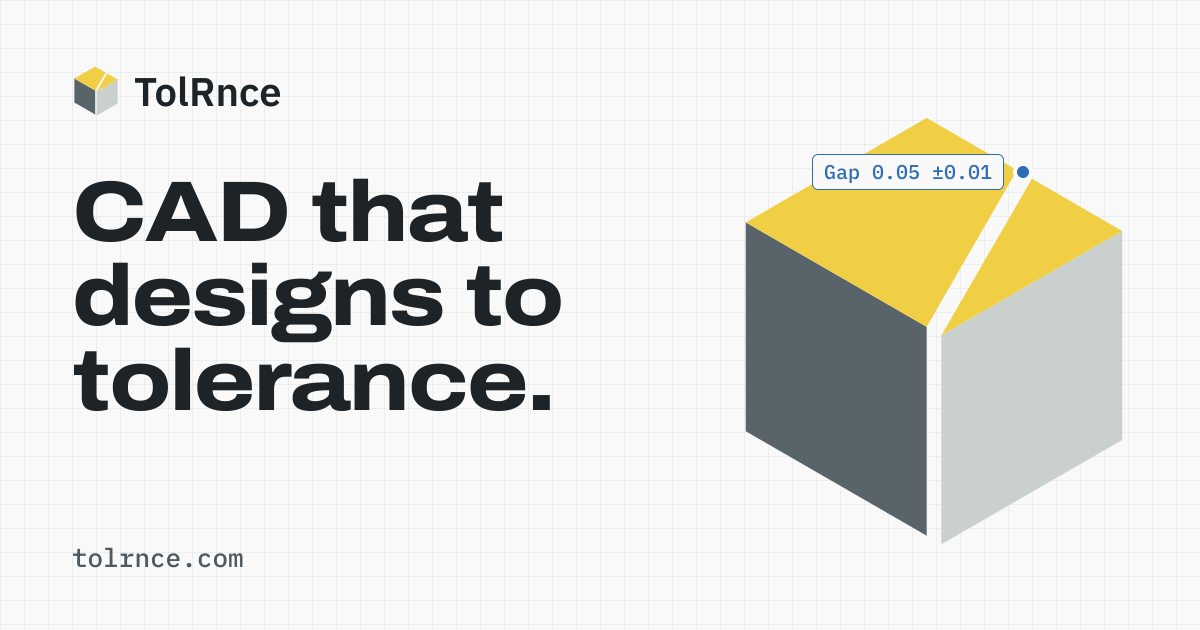
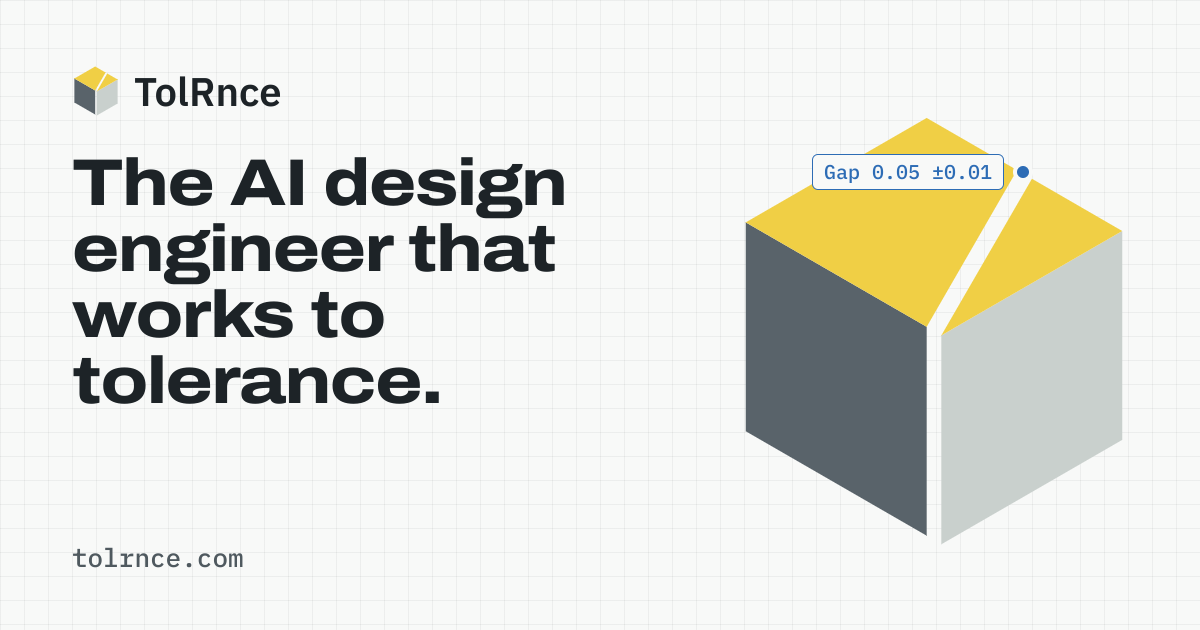
Website: clearer opening, privacy section and FAQ
After a look at competitors' sites (Zoo, Adam, Leo AI, Backflip):
- The opening says what TolRnce is and what you get: "The AI design
  engineer that works to tolerance", with the CAD programs it rebuilds
  the feature tree in. The dictionary-style line at the top is gone.
- New "Your drawings stay with you" section: geometry runs on the
  user's machine, the desktop app works offline, the AI agent only sends
  what you ask it to, and everything exports to STEP and native features.
- New FAQ: replacing CAD, inputs, tolerances, accuracy, supported
  programs and files, platforms, access.
- Navigation adds Privacy and FAQ; the link preview image and title use
  the new line.

Claude-Session: https://claude.ai/code/session_015F2jTHXjquvFGGgxEKdfFt

Changed region(s): [[0.0617, 0.2413, 0.4933, 0.6635]]

diff --git a/docs/index.html b/docs/index.html
@@ -121,11 +121,10 @@ main { position: relative; z-index: 2; }
 .copy p { color: var(--muted); max-width: 60ch; }
 .copy p strong { color: var(--fg); font-weight: 600; }
 .hero { min-height: 150vh; }
-.hero .copy { top: 10vh; width: min(35rem, 42vw); padding-top: 9vh; gap: 22px; }
-.def { font: 400 14px/1.5 var(--mono); color: var(--muted); display: flex; flex-wrap: wrap; gap: 0 10px; align-items: baseline; }
-.def b { font: 600 15px/1 var(--body); color: var(--fg); }
-.def i { font-style: italic; }
-.hero h1 { font: 780 clamp(42px, 5.6vw, 78px)/1.0 var(--display); font-stretch: 116%; letter-spacing: -.02em; }
+.hero .copy { top: 10vh; width: min(36rem, 43vw); padding-top: 8vh; gap: 22px; }
+.hero h1 { font: 780 clamp(40px, 4.9vw, 70px)/1.02 var(--display); font-stretch: 114%; letter-spacing: -.02em; }
+.works { font-size: 15px; color: var(--muted); border-top: 1px solid var(--rule); padding-top: 14px; max-width: 34rem; }
+.works b { color: var(--fg); font-weight: 600; }
 .hero .lede { font-size: 19px; color: var(--muted); max-width: 34rem; }
 .ctas { display: flex; flex-wrap: wrap; gap: 12px; }
 .hint { font-size: 14px; color: var(--muted); }
@@ -174,6 +173,22 @@ td.res { font-variant-numeric: tabular-nums; }
 .status.wip { color: var(--warn); }
 .note-fine { font-size: 13.5px; color: var(--muted); max-width: 80ch; }
 
+/* privacy points and questions */
+.points { display: grid; grid-template-columns: repeat(2, minmax(0, 1fr)); gap: 0 40px; margin: 0; }
+.points div { border-top: 1px solid var(--rule-strong); padding: 16px 0 22px; min-width: 0; }
+.points dt { font: 600 18px/1.35 var(--body); margin-bottom: 6px; }
+.points dd { margin: 0; color: var(--muted); max-width: 52ch; }
+.faq { border-top: 1px solid var(--rule-strong); max-width: 54rem; }
+.faq details { border-bottom: 1px solid var(--rule); }
+.faq summary { list-style: none; cursor: pointer; display: flex; justify-content: space-between; align-items: center; gap: 16px; padding: 18px 0; font: 600 18px/1.4 var(--body); }
+.faq summary::-webkit-details-marker { display: none; }
+.faq summary::after { content: "+"; font: 400 24px/1 var(--mono); color: var(--muted); flex: none; transition: transform .2s ease; }
+.faq details[open] summary::after { transform: rotate(45deg); }
+.faq details p { color: var(--muted); padding: 0 0 20px; max-width: 64ch; }
+.faq details p a { color: var(--fg); }
+@media (prefers-reduced-motion: reduce) { .faq summary::after { transition: none; } }
+@media (max-width: 760px) { .points { grid-template-columns: 1fr; } .faq summary { font-size: 16.5px; } }
+
 /* closing scene */
 .closing { min-height: 150vh; }
 .contact { display: flex; flex-wrap: wrap; align-items: center; gap: 10px 12px; padding: 14px 16px; border: 1px solid var(--rule-strong); border-radius: 12px; background: var(--surface); }
@@ -202,7 +217,7 @@ td.res { font-variant-numeric: tabular-nums; }
   .copy p { font-size: 15.5px; }
   .hero { min-height: auto; padding-top: 44svh; padding-bottom: 30svh; }
   .hero .copy { position: static; width: auto; max-height: none; overflow: visible; padding: 0; background: none; border: 0; gap: 16px; }
-  .hero h1 { font-size: clamp(36px, 10vw, 48px); }
+  .hero h1 { font-size: clamp(34px, 9vw, 44px); }
   .hero .lede { font-size: 17px; }
   .closing { min-height: auto; padding-top: 46svh; padding-bottom: 10svh; }
   .closing .copy { position: static; max-height: none; overflow: visible; }
@@ -222,12 +237,12 @@ td.res { font-variant-numeric: tabular-nums; }
 <meta property="og:type" content="website">
 <meta property="og:site_name" content="TolRnce">
 <meta property="og:url" content="https://tolrnce.com/">
-<meta property="og:title" content="TolRnce: CAD that designs to tolerance">
+<meta property="og:title" content="TolRnce: the AI design engineer that works to tolerance">
 <meta property="og:description" content="TolRnce is an AI design engineer for CAD. Describe a part, or drop in a drawing or a supplier’s STEP file, and get a parametric 3D model with its tolerances, drawing, cost and the steps to build it in your CAD program.">
 <meta property="og:image" content="https://tolrnce.com/og-image.png">
 <meta property="og:image:width" content="1200">
 <meta property="og:image:height" content="630">
-<meta property="og:image:alt" content="The TolRnce fit-cube logo and the line: CAD that designs to tolerance.">
+<meta property="og:image:alt" content="The TolRnce fit-cube logo and the line: The AI design engineer that works to tolerance.">
 <meta name="twitter:card" content="summary_large_image">
 </head>
 <body>
@@ -243,8 +258,9 @@ td.res { font-variant-numeric: tabular-nums; }
     <ul>
       <li><a href="#drawing">How it works</a></li>
       <li><a href="#fits">Tolerances</a></li>
-      <li><a href="#outputs">Outputs</a></li>
       <li><a href="#proof">Test results</a></li>
+      <li><a href="#privacy">Privacy</a></li>
+      <li><a href="#faq">FAQ</a></li>
     </ul>
     <a class="btn primary small" href="#access">Get early access</a>
   </div>
@@ -254,10 +270,10 @@ td.res { font-variant-numeric: tabular-nums; }
   <section class="scene hero" id="top" aria-labelledby="h-hero">
     <div class="wrap">
       <div class="copy">
-        <p class="def"><b>TolRnce</b><span>/ˈtɒl(ə)rəns/</span><i>noun</i><span>The amount a size can vary and the part still fits.</span></p>
-        <h1 id="h-hero">CAD that designs to tolerance.</h1>
-        <p class="lede">TolRnce is an AI design engineer. Describe a part, or drop in a drawing or a supplier’s STEP file, and get a parametric 3D model with its tolerances, drawing, cost and the steps to build it in your CAD program.</p>
+        <h1 id="h-hero">The AI design engineer that works to tolerance.</h1>
+        <p class="lede">Give TolRnce a drawing, a supplier’s STEP file or a few sentences. It builds the parametric 3D model with its fits and tolerances, the manufacturing drawing and a cost estimate, and hands it to your CAD program ready to edit.</p>
         <div class="ctas"><a class="btn primary" href="#access">Get early access</a><a class="btn" href="#drawing">See how it works</a></div>
+        <p class="works">Rebuilds the feature tree in <b>SOLIDWORKS</b>, <b>Fusion</b> and <b>FreeCAD</b>. Opens anywhere as <b>STEP</b>.</p>
         <p class="hint">Scroll to build a part. Click or tap the cube to test its fit.</p>
       </div>
     </div>
@@ -375,6 +391,55 @@ td.res { font-variant-numeric: tabular-nums; }
         </table>
       </div>
       <p class="note-fine">NIST test cases courtesy of the NIST MBE PMI Validation and Conformance Testing Project. NIST does not endorse TolRnce.</p>
+    </div>
+  </section>
+
+  <section class="band" id="privacy" aria-labelledby="h-privacy">
+    <div class="wrap">
+      <h2 id="h-privacy">Your drawings stay with you</h2>
+      <p class="intro">Design files are your company’s IP. TolRnce is built so they don’t have to leave your computer.</p>
+      <dl class="points">
+        <div><dt>Geometry runs on your machine</dt><dd>The CAD kernel runs inside your browser or the desktop app. Drawings and STEP files you open are read there; there’s no TolRnce server they get uploaded to.</dd></div>
+        <div><dt>The desktop app works offline</dt><dd>It makes no network requests, so you can use it on computers without internet access.</dd></div>
+        <div><dt>You decide what the AI sees</dt><dd>The AI agent in the web studio sends your request and the current model to Claude, made by Anthropic, only when you ask it to do something.</dd></div>
+        <div><dt>No lock-in</dt><dd>Every part exports as STEP, and the macros rebuild it as native features in your own CAD program, where you own it.</dd></div>
+      </dl>
+    </div>
+  </section>
+
+  <section class="band" id="faq" aria-labelledby="h-faq">
+    <div class="wrap">
+      <h2 id="h-faq">Questions engineers ask</h2>
+      <div class="faq">
+        <details>
+          <summary>Does TolRnce replace my CAD program?</summary>
+          <p>No. It does the first draft and the repetitive work, then hands the model to your CAD program: a STEP file, plus macros that rebuild the feature tree in SOLIDWORKS, Fusion and FreeCAD, and step-by-step instructions for Inventor, Onshape and AutoCAD. You keep designing where you already work.</p>
+        </details>
+        <details>
+          <summary>What can I start from?</summary>
+          <p>A DWG or DXF drawing, a supplier’s STEP file, one of the starter parts, or a description in words. With the AI agent you can also attach a photo of a drawing.</p>
+        </details>
+        <details>
+          <summary>Does it really handle tolerances?</summary>
+          <p>Yes. Holes carry ISO 286 fits such as H7, drawings carry ISO 2768 general tolerances, and a stack-up calculator handles chains of dimensions. From STEP AP242 files it reads the dimensions, limits, fits, GD&amp;T frames and datums the designer put in: 404 of 415 in NIST’s test cases.</p>
+        </details>
+        <details>
+          <summary>Is the AI always right?</summary>
+          <p>No, and TolRnce doesn’t assume it is. Every model is built by a real geometry kernel and checked before you see it: clashes, holes that don’t line up, bolts with no hole, walls that are too thin. Features the network finds are checked against the exact geometry. Check the model before anything is made, as you would with a colleague’s work.</p>
+        </details>
+        <details>
+          <summary>Which CAD programs and files does it work with?</summary>
+          <p>Macros for SOLIDWORKS (VBA), Fusion (Python), FreeCAD and CadQuery; step-by-step guides for Inventor, Onshape and AutoCAD. Files in: DWG, DXF, STEP (AP203, AP214, AP242) and images. Files out: STEP, STL, SVG drawings, CSV bills of materials and tube cut lists.</p>
+        </details>
+        <details>
+          <summary>Where does it run?</summary>
+          <p>In your browser, and as a desktop app for Windows and macOS (Apple silicon and Intel). The AI agent runs in the web studio today and is coming to the desktop app next.</p>
+        </details>
+        <details>
+          <summary>How do I get access?</summary>
+          <p>Email <a href="#access">hello@tolrnce.com</a> with what you design and which CAD program you use, and we’ll set you up.</p>
+        </details>
+      </div>
     </div>
   </section>
 

diff --git a/src/page.html b/src/page.html
@@ -116,11 +116,10 @@ main { position: relative; z-index: 2; }
 .copy p { color: var(--muted); max-width: 60ch; }
 .copy p strong { color: var(--fg); font-weight: 600; }
 .hero { min-height: 150vh; }
-.hero .copy { top: 10vh; width: min(35rem, 42vw); padding-top: 9vh; gap: 22px; }
-.def { font: 400 14px/1.5 var(--mono); color: var(--muted); display: flex; flex-wrap: wrap; gap: 0 10px; align-items: baseline; }
-.def b { font: 600 15px/1 var(--body); color: var(--fg); }
-.def i { font-style: italic; }
-.hero h1 { font: 780 clamp(42px, 5.6vw, 78px)/1.0 var(--display); font-stretch: 116%; letter-spacing: -.02em; }
+.hero .copy { top: 10vh; width: min(36rem, 43vw); padding-top: 8vh; gap: 22px; }
+.hero h1 { font: 780 clamp(40px, 4.9vw, 70px)/1.02 var(--display); font-stretch: 114%; letter-spacing: -.02em; }
+.works { font-size: 15px; color: var(--muted); border-top: 1px solid var(--rule); padding-top: 14px; max-width: 34rem; }
+.works b { color: var(--fg); font-weight: 600; }
 .hero .lede { font-size: 19px; color: var(--muted); max-width: 34rem; }
 .ctas { display: flex; flex-wrap: wrap; gap: 12px; }
 .hint { font-size: 14px; color: var(--muted); }
@@ -169,6 +168,22 @@ td.res { font-variant-numeric: tabular-nums; }
 .status.wip { color: var(--warn); }
 .note-fine { font-size: 13.5px; color: var(--muted); max-width: 80ch; }
 
+/* privacy points and questions */
+.points { display: grid; grid-template-columns: repeat(2, minmax(0, 1fr)); gap: 0 40px; margin: 0; }
+.points div { border-top: 1px solid var(--rule-strong); padding: 16px 0 22px; min-width: 0; }
+.points dt { font: 600 18px/1.35 var(--body); margin-bottom: 6px; }
+.points dd { margin: 0; color: var(--muted); max-width: 52ch; }
+.faq { border-top: 1px solid var(--rule-strong); max-width: 54rem; }
+.faq details { border-bottom: 1px solid var(--rule); }
+.faq summary { list-style: none; cursor: pointer; display: flex; justify-content: space-between; align-items: center; gap: 16px; padding: 18px 0; font: 600 18px/1.4 var(--body); }
+.faq summary::-webkit-details-marker { display: none; }
+.faq summary::after { content: "+"; font: 400 24px/1 var(--mono); color: var(--muted); flex: none; transition: transform .2s ease; }
+.faq details[open] summary::after { transform: rotate(45deg); }
+.faq details p { color: var(--muted); padding: 0 0 20px; max-width: 64ch; }
+.faq details p a { color: var(--fg); }
+@media (prefers-reduced-motion: reduce) { .faq summary::after { transition: none; } }
+@media (max-width: 760px) { .points { grid-template-columns: 1fr; } .faq summary { font-size: 16.5px; } }
+
 /* closing scene */
 .closing { min-height: 150vh; }
 .contact { display: flex; flex-wrap: wrap; align-items: center; gap: 10px 12px; padding: 14px 16px; border: 1px solid var(--rule-strong); border-radius: 12px; background: var(--surface); }
@@ -197,7 +212,7 @@ td.res { font-variant-numeric: tabular-nums; }
   .copy p { font-size: 15.5px; }
   .hero { min-height: auto; padding-top: 44svh; padding-bottom: 30svh; }
   .hero .copy { position: static; width: auto; max-height: none; overflow: visible; padding: 0; background: none; border: 0; gap: 16px; }
-  .hero h1 { font-size: clamp(36px, 10vw, 48px); }
+  .hero h1 { font-size: clamp(34px, 9vw, 44px); }
   .hero .lede { font-size: 17px; }
   .closing { min-height: auto; padding-top: 46svh; padding-bottom: 10svh; }
   .closing .copy { position: static; max-height: none; overflow: visible; }
@@ -222,8 +237,9 @@ td.res { font-variant-numeric: tabular-nums; }
     <ul>
       <li><a href="#drawing">How it works</a></li>
       <li><a href="#fits">Tolerances</a></li>
-      <li><a href="#outputs">Outputs</a></li>
       <li><a href="#proof">Test results</a></li>
+      <li><a href="#privacy">Privacy</a></li>
+      <li><a href="#faq">FAQ</a></li>
     </ul>
     <a class="btn primary small" href="#access">Get early access</a>
   </div>
@@ -233,10 +249,10 @@ td.res { font-variant-numeric: tabular-nums; }
   <section class="scene hero" id="top" aria-labelledby="h-hero">
     <div class="wrap">
       <div class="copy">
-        <p class="def"><b>TolRnce</b><span>/ˈtɒl(ə)rəns/</span><i>noun</i><span>The amount a size can vary and the part still fits.</span></p>
-        <h1 id="h-hero">CAD that designs to tolerance.</h1>
-        <p class="lede">TolRnce is an AI design engineer. Describe a part, or drop in a drawing or a supplier’s STEP file, and get a parametric 3D model with its tolerances, drawing, cost and the steps to build it in your CAD program.</p>
+        <h1 id="h-hero">The AI design engineer that works to tolerance.</h1>
+        <p class="lede">Give TolRnce a drawing, a supplier’s STEP file or a few sentences. It builds the parametric 3D model with its fits and tolerances, the manufacturing drawing and a cost estimate, and hands it to your CAD program ready to edit.</p>
         <div class="ctas"><a class="btn primary" href="#access">Get early access</a><a class="btn" href="#drawing">See how it works</a></div>
+        <p class="works">Rebuilds the feature tree in <b>SOLIDWORKS</b>, <b>Fusion</b> and <b>FreeCAD</b>. Opens anywhere as <b>STEP</b>.</p>
         <p class="hint">Scroll to build a part. Click or tap the cube to test its fit.</p>
       </div>
     </div>
@@ -354,6 +370,55 @@ td.res { font-variant-numeric: tabular-nums; }
         </table>
       </div>
       <p class="note-fine">NIST test cases courtesy of the NIST MBE PMI Validation and Conformance Testing Project. NIST does not endorse TolRnce.</p>
+    </div>
+  </section>
+
+  <section class="band" id="privacy" aria-labelledby="h-privacy">
+    <div class="wrap">
+      <h2 id="h-privacy">Your drawings stay with you</h2>
+      <p class="intro">Design files are your company’s IP. TolRnce is built so they don’t have to leave your computer.</p>
+      <dl class="points">
+        <div><dt>Geometry runs on your machine</dt><dd>The CAD kernel runs inside your browser or the desktop app. Drawings and STEP files you open are read there; there’s no TolRnce server they get uploaded to.</dd></div>
+        <div><dt>The desktop app works offline</dt><dd>It makes no network requests, so you can use it on computers without internet access.</dd></div>
+        <div><dt>You decide what the AI sees</dt><dd>The AI agent in the web studio sends your request and the current model to Claude, made by Anthropic, only when you ask it to do something.</dd></div>
+        <div><dt>No lock-in</dt><dd>Every part exports as STEP, and the macros rebuild it as native features in your own CAD program, where you own it.</dd></div>
+      </dl>
+    </div>
+  </section>
+
+  <section class="band" id="faq" aria-labelledby="h-faq">
+    <div class="wrap">
+      <h2 id="h-faq">Questions engineers ask</h2>
+      <div class="faq">
+        <details>
+          <summary>Does TolRnce replace my CAD program?</summary>
+          <p>No. It does the first draft and the repetitive work, then hands the model to your CAD program: a STEP file, plus macros that rebuild the feature tree in SOLIDWORKS, Fusion and FreeCAD, and step-by-step instructions for Inventor, Onshape and AutoCAD. You keep designing where you already work.</p>
+        </details>
+        <details>
+          <summary>What can I start from?</summary>
+          <p>A DWG or DXF drawing, a supplier’s STEP file, one of the starter parts, or a description in words. With the AI agent you can also attach a photo of a drawing.</p>
+        </details>
+        <details>
+          <summary>Does it really handle tolerances?</summary>
+          <p>Yes. Holes carry ISO 286 fits such as H7, drawings carry ISO 2768 general tolerances, and a stack-up calculator handles chains of dimensions. From STEP AP242 files it reads the dimensions, limits, fits, GD&amp;T frames and datums the designer put in: 404 of 415 in NIST’s test cases.</p>
+        </details>
+        <details>
+          <summary>Is the AI always right?</summary>
+          <p>No, and TolRnce doesn’t assume it is. Every model is built by a real geometry kernel and checked before you see it: clashes, holes that don’t line up, bolts with no hole, walls that are too thin. Features the network finds are checked against the exact geometry. Check the model before anything is made, as you would with a colleague’s work.</p>
+        </details>
+        <details>
+          <summary>Which CAD programs and files does it work with?</summary>
+          <p>Macros for SOLIDWORKS (VBA), Fusion (Python), FreeCAD and CadQuery; step-by-step guides for Inventor, Onshape and AutoCAD. Files in: DWG, DXF, STEP (AP203, AP214, AP242) and images. Files out: STEP, STL, SVG drawings, CSV bills of materials and tube cut lists.</p>
+        </details>
+        <details>
+          <summary>Where does it run?</summary>
+          <p>In your browser, and as a desktop app for Windows and macOS (Apple silicon and Intel). The AI agent runs in the web studio today and is coming to the desktop app next.</p>
+        </details>
+        <details>
+          <summary>How do I get access?</summary>
+          <p>Email <a href="#access">hello@tolrnce.com</a> with what you design and which CAD program you use, and we’ll set you up.</p>
+        </details>
+      </div>
     </div>
   </section>
 

diff --git a/build.py b/build.py
@@ -25,12 +25,12 @@ extra = f'''<meta name="description" content="{DESC}">
 <meta property="og:type" content="website">
 <meta property="og:site_name" content="TolRnce">
 <meta property="og:url" content="{SITE}">
-<meta property="og:title" content="TolRnce: CAD that designs to tolerance">
+<meta property="og:title" content="TolRnce: the AI design engineer that works to tolerance">
 <meta property="og:description" content="{DESC}">
 <meta property="og:image" content="{SITE}og-image.png">
 <meta property="og:image:width" content="1200">
 <meta property="og:image:height" content="630">
-<meta property="og:image:alt" content="The TolRnce fit-cube logo and the line: CAD that designs to tolerance.">
+<meta property="og:image:alt" content="The TolRnce fit-cube logo and the line: The AI design engineer that works to tolerance.">
 <meta name="twitter:card" content="summary_large_image">'''
 doc = ('<!doctype html>\n<html lang="en">\n<head>\n<meta charset="utf-8">\n'
        '<meta name="viewport" content="width=device-width, initial-scale=1, viewport-fit=cover">\n'
